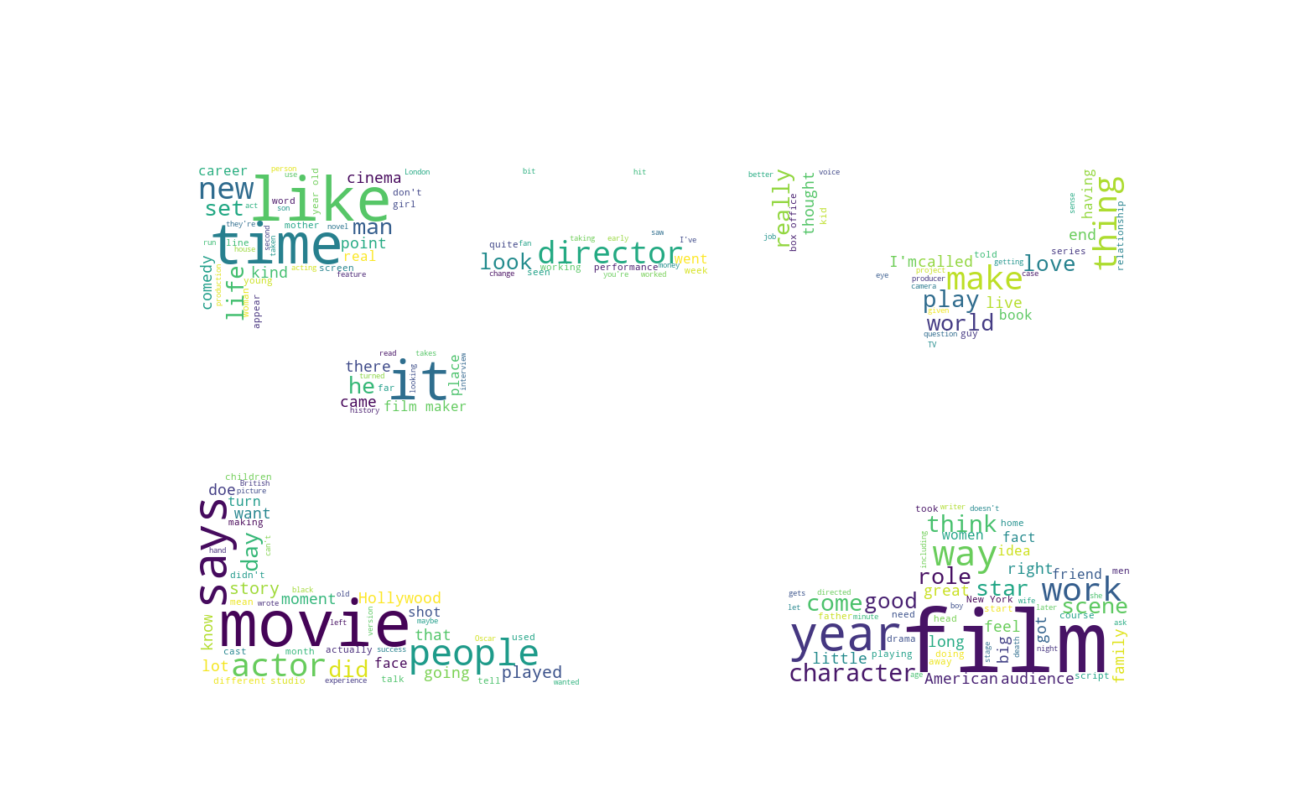
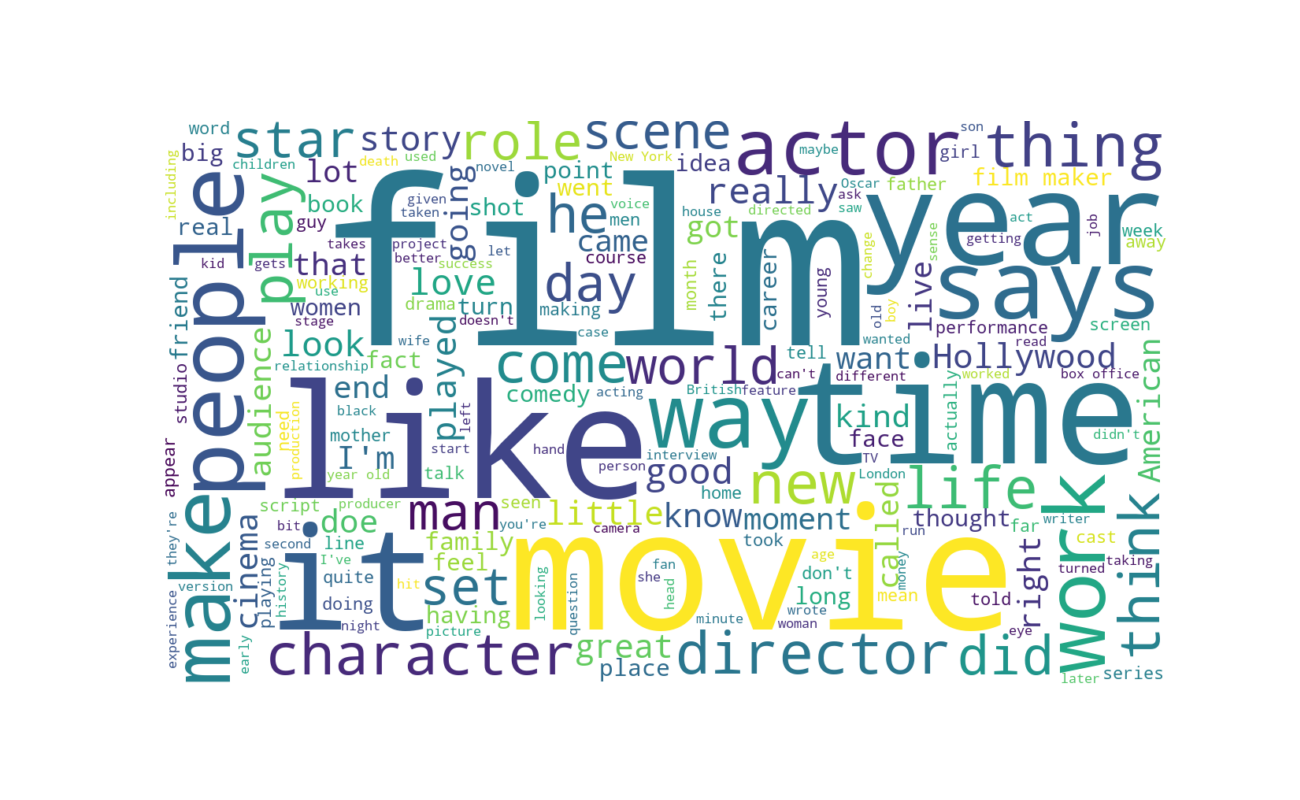
First Naive Bayes attempt

Changed region(s): [[0.1231, 0.125, 0.8923, 0.875]]

diff --git a/wcloud.py b/wcloud.py
@@ -1,8 +1,6 @@
 from wordcloud import WordCloud
 from sklearn.feature_extraction.text import ENGLISH_STOP_WORDS
 import matplotlib.pyplot as plt
-from PIL import Image
-import numpy as np
 import pandas as pd
 
 custom_stopwords = set(ENGLISH_STOP_WORDS)
@@ -13,7 +11,6 @@ train_data = pd.read_csv('train_set.csv', sep="\t")
 
 Categories = list(set(train_data['Category']))
 category_text_list = [[] for x in Categories]
-img_masks = {"Business":"business.png", "Football":"football.png", "Politics":"politics.png", "Film":"film.png", "Technology":"technology.png"}
 
 for x in zip(train_data['Content'],train_data['Category']):
 	index = Categories.index(x[1])
@@ -21,23 +18,12 @@ for x in zip(train_data['Content'],train_data['Category']):
 
 for i in range(0, len(Categories)):
 	category_text = ' '.join(category_text_list[i])
-	mask = np.array(Image.open(img_masks[Categories[i]]))
-	wc = WordCloud(width=1280, height=720, stopwords=custom_stopwords, mask=mask, background_color="white").generate(category_text)
+	wc = WordCloud(width=1280, height=720, stopwords=custom_stopwords, background_color="white").generate(category_text)
 	fig = plt.figure(figsize=(13,8))
 	plt.imshow(wc, interpolation="bilinear")
 	plt.axis("off")	
-	fig.savefig(Categories[i] + "_wc.png")
+	wc_path = Categories[i] + "_wc.png"
+	fig.savefig(wc_path)
 	plt.close()
+	print "Created and saved " + Categories[i] + " workcloud at: ./" + wc_path
 
-
-'''
-for i in range(0, len(Categories)):
-	text_list = [x[0] for x in zip(train_data['Content'],train_data['Category']) if x[1] == Categories[i]]
-	text = ' '.join(text_list)
-	wc = WordCloud(width=1280, height=720, stopwords=custom_stopwords, background_color="white").generate(text)
-	fig = plt.figure(figsize=(13,8))
-	plt.imshow(wc, interpolation="bilinear")
-	plt.axis("off")	
-	fig.savefig(Categories[i] + "_wc.png")
-	plt.close()
-'''
